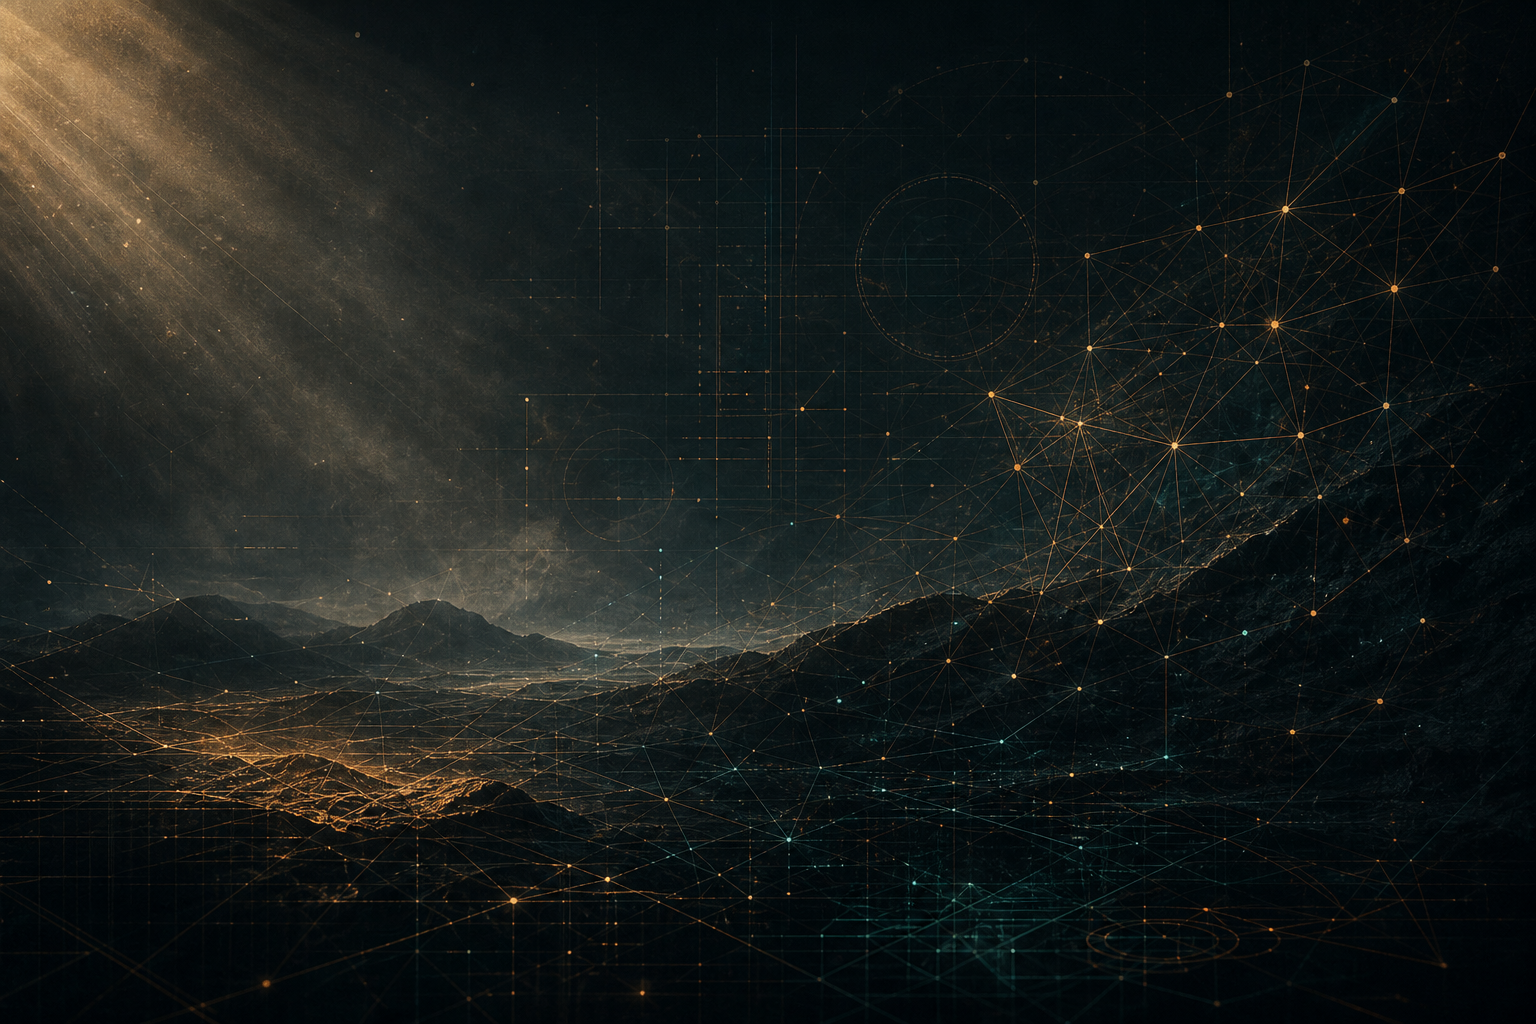
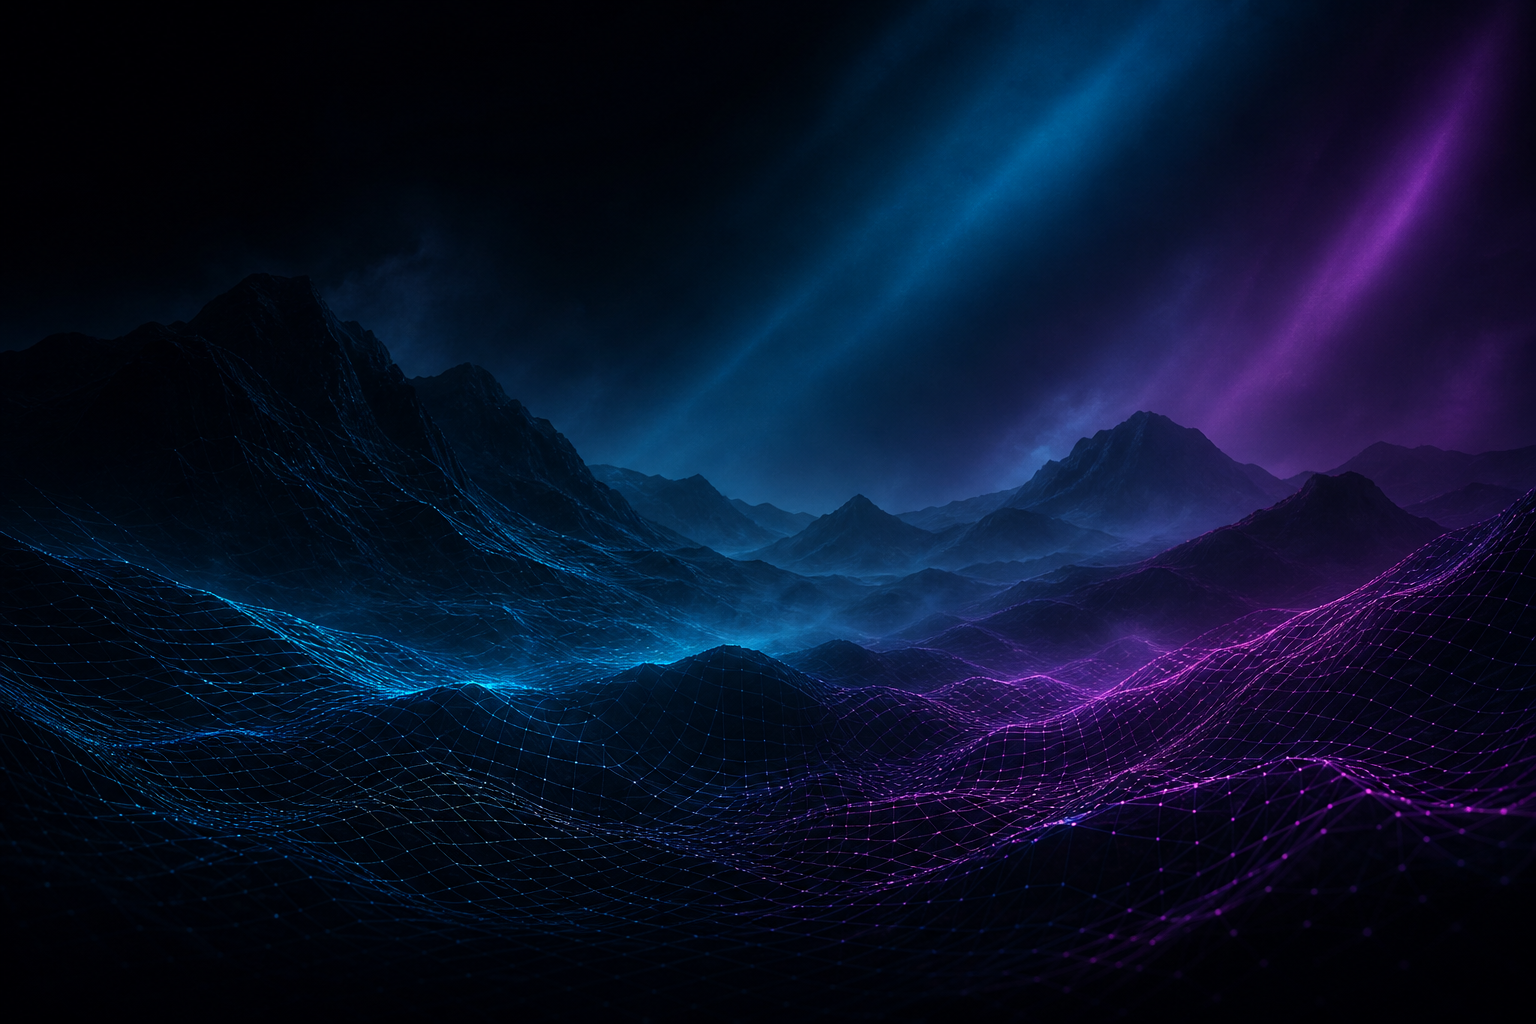
updated new colour palette

diff --git a/index.html b/index.html
@@ -27,61 +27,60 @@
     }
 
     [data-theme="dark"] {
-      --bg: #0b0d11;
-      --bg-elev: #12151c;
-      --bg-panel: #161a22;
-      --bg-soft: #1b2029;
-      --ink: #ece8e0;
-      --ink-soft: #a8a297;
-      --ink-faint: #6d685f;
-      --line-color: rgba(232, 196, 120, 0.18);
-      --line-strong: rgba(232, 196, 120, 0.42);
-      --accent: #d4a056;
-      --accent-2: #3a9e94;
-      --accent-3: #7ec8bf;
-      --success: #6dcc8a;
-      --danger: #d66a6a;
-      --hero-overlay: linear-gradient(120deg, rgba(11,13,17,0.92) 0%, rgba(11,13,17,0.72) 45%, rgba(11,13,17,0.88) 100%);
-      --scroll-veil: rgba(11, 13, 17, 0.82);
-      --shadow: 0 24px 60px rgba(0,0,0,0.45);
-      --noise-op: 0.045;
-      --cursor: #d4a056;
-      --splash-bg: #07090c;
-      --logo-frame: #0e1117;
-      --logo-plate: #161a22;
-      --logo-stroke: #d4a056;
-      --logo-l: #d4a056;
-      --logo-f: #3a9e94;
-      --logo-gem: #e8c078;
+      --bg: #05060a;
+      --bg-elev: #0b0d14;
+      --bg-panel: #11131c;
+      --bg-soft: #171a25;
+      --ink: #f4f7fc;
+      --ink-soft: #9aa3b8;
+      --ink-faint: #6a7388;
+      --line-color: rgba(26, 163, 255, 0.16);
+      --line-strong: rgba(13, 111, 212, 0.4);
+      --accent: #1aa3ff;
+      --accent-2: #0a4f9c;
+      --accent-3: #7dd9ff;
+      --on-accent: #ffffff;
+      --success: #3dde9a;
+      --danger: #ff5d7a;
+      --hero-overlay: linear-gradient(120deg, rgba(5,6,10,0.88) 0%, rgba(5,6,10,0.55) 42%, rgba(5,6,10,0.82) 100%);
+      --scroll-veil: rgba(5, 6, 10, 0.72);
+      --shadow: 0 24px 60px rgba(0, 0, 0, 0.55);
+      --noise-op: 0.04;
+      --cursor: #1aa3ff;
+      --splash-bg: #000000;
+      --accent-grad: linear-gradient(120deg, #062a5c 0%, #0d6fd4 42%, #3db7ff 78%, #f2f9ff 100%);
     }
 
     [data-theme="light"] {
-      --bg: #f2efe8;
-      --bg-elev: #ebe7de;
-      --bg-panel: #faf8f3;
-      --bg-soft: #f6f3ec;
-      --ink: #16141a;
-      --ink-soft: #524c45;
-      --ink-faint: #82796e;
-      --line-color: rgba(170, 125, 45, 0.22);
-      --line-strong: rgba(170, 125, 45, 0.48);
-      --accent: #b8862e;
-      --accent-2: #2a8a82;
-      --accent-3: #3aa89e;
-      --success: #1f8a4c;
-      --danger: #c44545;
-      --hero-overlay: linear-gradient(120deg, rgba(242,239,232,0.94) 0%, rgba(242,239,232,0.72) 48%, rgba(242,239,232,0.9) 100%);
-      --scroll-veil: rgba(242, 239, 232, 0.55);
-      --shadow: 0 20px 48px rgba(40, 32, 18, 0.08);
+      --bg: #eef3f8;
+      --bg-elev: #e6edf5;
+      --bg-panel: #f7fafc;
+      --bg-soft: #eef4fa;
+      --ink: #12151c;
+      --ink-soft: #4f5668;
+      --ink-faint: #7a8496;
+      --line-color: rgba(40, 90, 140, 0.16);
+      --line-strong: rgba(13, 111, 212, 0.32);
+      --accent: #0d6fd4;
+      --accent-2: #074a96;
+      --accent-3: #2a8fd4;
+      --on-accent: #ffffff;
+      --success: #0f9f65;
+      --danger: #d63d5c;
+      --hero-overlay: linear-gradient(120deg, rgba(238,243,248,0.84) 0%, rgba(232,240,248,0.5) 48%, rgba(238,243,248,0.8) 100%);
+      --scroll-veil: rgba(238, 243, 248, 0.7);
+      --shadow: 0 18px 42px rgba(40, 60, 90, 0.1);
       --noise-op: 0.035;
-      --cursor: #b8862e;
-      --splash-bg: #ebe7de;
-      --logo-frame: #141820;
-      --logo-plate: #1b2029;
-      --logo-stroke: #c4923a;
-      --logo-l: #d4a056;
-      --logo-f: #3aa89e;
-      --logo-gem: #f0d08a;
+      --cursor: #0d6fd4;
+      --splash-bg: #eaf0f6;
+      --accent-grad: linear-gradient(120deg, #063a7a 0%, #0d6fd4 45%, #4db4ff 82%, #ffffff 100%);
+    }
+
+    [data-theme="light"] body {
+      background:
+        radial-gradient(1100px 560px at 88% 6%, rgba(186, 220, 255, 0.5), transparent 62%),
+        radial-gradient(900px 520px at 8% 18%, rgba(245, 250, 255, 0.85), transparent 58%),
+        linear-gradient(180deg, #f7fafc 0%, #eaf2f9 52%, #eef3f8 100%);
     }
 
     *, *::before, *::after { box-sizing: border-box; margin: 0; padding: 0; }
@@ -98,13 +97,14 @@
       border-left: 1px solid var(--line-color);
     }
     ::-webkit-scrollbar-thumb {
-      background: linear-gradient(180deg, var(--accent), var(--accent-2));
+      background: var(--accent-grad);
       border: 2px solid var(--bg-elev);
       border-radius: 0;
       clip-path: polygon(0 6px, 6px 0, 100% 0, 100% calc(100% - 6px), calc(100% - 6px) 100%, 0 100%);
     }
     ::-webkit-scrollbar-thumb:hover {
-      background: linear-gradient(180deg, color-mix(in srgb, var(--accent) 85%, #fff), var(--accent-2));
+      filter: brightness(1.12);
+      background: var(--accent-grad);
     }
     ::-webkit-scrollbar-corner {
       background: var(--bg-elev);
@@ -205,7 +205,7 @@
     }
     .splash-bar::after {
       content: ""; position: absolute; inset: 0 auto 0 0; width: 0%;
-      background: linear-gradient(90deg, var(--accent-2), var(--accent));
+      background: var(--accent-grad);
       animation: bootBar 2.4s var(--ease-out) forwards;
     }
     @keyframes bootBar { to { width: 100%; } }
@@ -233,18 +233,23 @@
       background-size: 720px; background-repeat: repeat;
       opacity: 0; mix-blend-mode: soft-light;
       animation: textureDrift 48s linear infinite;
-      transition: opacity 1s ease, filter 1s ease;
+      transition: opacity 1s ease, filter 1s ease, background-image 0.45s ease;
       filter: blur(0);
     }
     body.show-neural .scroll-texture {
-      opacity: 0.18;
+      opacity: 0.16;
       filter: blur(1.5px);
     }
-    [data-theme="light"] .scroll-texture { mix-blend-mode: soft-light; opacity: 0; }
+    [data-theme="light"] .scroll-texture {
+      background-image: url("./assets/scroll-backdrop-light.png");
+      background-size: 820px;
+      mix-blend-mode: normal;
+      opacity: 0;
+    }
     body.show-neural[data-theme="light"] .scroll-texture {
-      opacity: 0.16;
-      filter: blur(2px);
-      mix-blend-mode: soft-light;
+      opacity: 0.42;
+      filter: blur(0.6px);
+      mix-blend-mode: normal;
     }
     @keyframes textureDrift {
       from { background-position: 0 0; }
@@ -307,10 +312,10 @@
     }
     .btn:hover::after { transform: translateX(120%); }
     .btn-primary {
-      background: var(--accent); color: #14110c; border-color: var(--accent);
+      background: var(--accent-grad); color: var(--on-accent); border-color: transparent;
       box-shadow: 0 0 0 0 color-mix(in srgb, var(--accent) 40%, transparent);
     }
-    .btn-primary:hover { transform: translateY(-2px); box-shadow: 0 10px 28px color-mix(in srgb, var(--accent) 28%, transparent); }
+    .btn-primary:hover { transform: translateY(-2px); box-shadow: 0 10px 28px color-mix(in srgb, var(--accent) 32%, transparent); }
     .btn-secondary {
       border-color: var(--line-strong); background: color-mix(in srgb, var(--bg-elev) 70%, transparent);
     }
@@ -453,7 +458,7 @@
     }
     .hero-copy::before {
       content: ""; position: absolute; left: 0; top: 0.35rem; bottom: 0.35rem; width: 2px;
-      background: linear-gradient(180deg, var(--accent), var(--accent-2), transparent);
+      background: var(--accent-grad);
       animation: railPulse 4s ease-in-out infinite;
     }
     @keyframes railPulse {
@@ -499,7 +504,18 @@
       will-change: transform;
     }
     .hero-title .line-lumina .char { color: var(--ink); }
-    .hero-title .line-frameworks .char { color: var(--accent); }
+    .hero-title .line-frameworks .char {
+      background: linear-gradient(90deg, #074a96 0%, #1aa3ff 45%, #9fd8ff 100%);
+      -webkit-background-clip: text;
+      background-clip: text;
+      color: transparent;
+    }
+    [data-theme="light"] .hero-title .line-frameworks .char {
+      background: linear-gradient(90deg, #063a7a 0%, #0d6fd4 50%, #5eb8ff 100%);
+      -webkit-background-clip: text;
+      background-clip: text;
+      color: transparent;
+    }
     @keyframes charUp { to { transform: translateY(0); } }
     .hero-sub {
       font-family: var(--font-display); font-weight: 600;
@@ -509,7 +525,7 @@
     }
     .hero-sub::after {
       content: ""; position: absolute; left: 0; bottom: -5px; height: 2px; width: 100%;
-      background: linear-gradient(90deg, var(--accent), transparent);
+      background: var(--accent-grad);
       transform-origin: left; animation: underlineIdle 3.2s ease-in-out infinite;
     }
     @keyframes underlineIdle {
@@ -560,13 +576,14 @@
       border-left: 1px solid var(--line-color);
     }
     .terminal-body::-webkit-scrollbar-thumb {
-      background: linear-gradient(180deg, var(--accent), var(--accent-2));
+      background: var(--accent-grad);
       border: 1px solid color-mix(in srgb, var(--bg-elev) 70%, transparent);
       border-radius: 0;
       clip-path: polygon(0 4px, 4px 0, 100% 0, 100% calc(100% - 4px), calc(100% - 4px) 100%, 0 100%);
     }
     .terminal-body::-webkit-scrollbar-thumb:hover {
-      background: linear-gradient(180deg, color-mix(in srgb, var(--accent) 85%, #fff), var(--accent-2));
+      filter: brightness(1.1);
+      background: var(--accent-grad);
     }
     .cli-line.comment { color: var(--ink-faint); }
     .cli-line.success { color: var(--success); }
@@ -1089,8 +1106,8 @@
 
     /* Loading spinner */
     .loading-spinner {
-      width: 14px; height: 14px; border: 1.5px solid color-mix(in srgb, #14110c 30%, transparent);
-      border-top-color: #14110c; display: none;
+      width: 14px; height: 14px; border: 1.5px solid color-mix(in srgb, var(--on-accent) 30%, transparent);
+      border-top-color: var(--on-accent); display: none;
       clip-path: polygon(20% 0, 80% 0, 100% 20%, 100% 80%, 80% 100%, 20% 100%, 0 80%, 0 20%);
       animation: spin 0.7s linear infinite;
     }
@@ -1452,7 +1469,7 @@
     .lumi-form textarea:focus { border-color: var(--accent); }
     .lumi-send {
       width: 48px; align-self: end; height: 44px; display: grid; place-items: center;
-      border: 1px solid var(--accent); background: var(--accent); color: #14110c; cursor: none;
+      border: 1px solid transparent; background: var(--accent-grad); color: var(--on-accent); cursor: none;
       clip-path: polygon(8px 0, 100% 0, 100% calc(100% - 8px), calc(100% - 8px) 100%, 0 100%, 0 8px);
       transition: transform 0.25s, filter 0.25s;
     }
@@ -2516,8 +2533,8 @@
       function themeColors() {
         const dark = html.getAttribute("data-theme") === "dark";
         return dark
-          ? { node: "rgba(212,160,86,0.75)", line: "rgba(58,158,148,0.28)", glow: "rgba(212,160,86,0.12)" }
-          : { node: "rgba(184,134,46,0.85)", line: "rgba(42,138,130,0.32)", glow: "rgba(42,138,130,0.12)" };
+          ? { node: "rgba(26,163,255,0.82)", line: "rgba(10,79,156,0.3)", glow: "rgba(26,163,255,0.14)" }
+          : { node: "rgba(13,111,212,0.85)", line: "rgba(7,74,150,0.28)", glow: "rgba(13,111,212,0.12)" };
       }
 
       function draw() {
